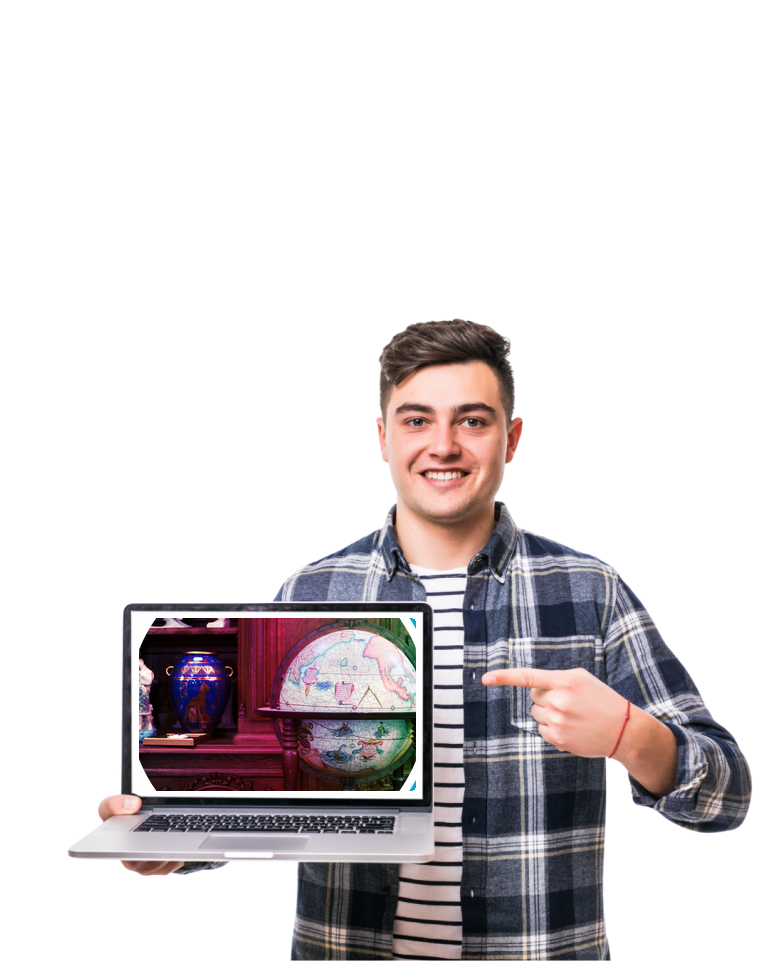
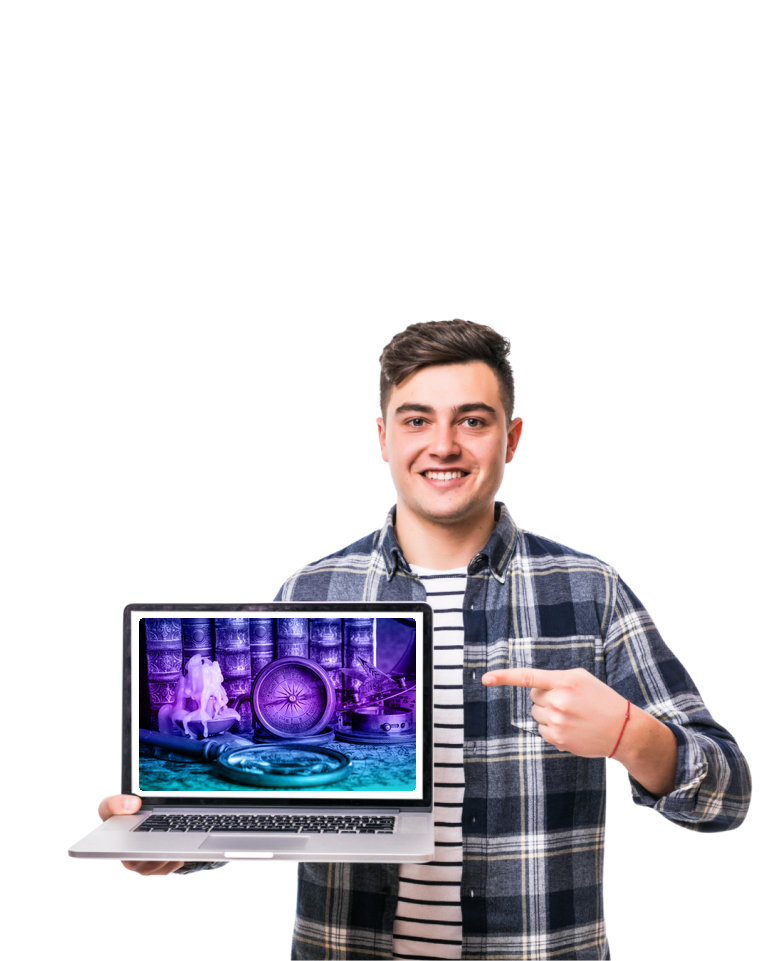
Put image copy 2 on the Museology hero laptop screen.

Changed region(s): [[0.156, 0.6243, 0.5618, 0.8429]]

diff --git a/index.html b/index.html
@@ -644,7 +644,7 @@ height="0" width="0" style="display:none;visibility:hidden"></iframe></noscript>
 
       <div class="hero-center">
         <div class="hero-student-stack">
-          <img src="assets/hero-student-laptop-blue.png" alt="Museology student with heritage programme visual on laptop" class="hero-student-img">
+          <img src="assets/hero-student-laptop-blue.png" alt="Museology student with blue heritage artefacts on laptop" class="hero-student-img">
             </div>
           </div>
 
@@ -784,7 +784,7 @@ height="0" width="0" style="display:none;visibility:hidden"></iframe></noscript>
             <span class="programme-learn-more-arrow" aria-hidden="true">&#8592;</span>
           </a>
           <figure class="programme-overview-finance">
-            <img src="assets/image copy 2.png" alt="Heritage research artefacts — compass, books and archival tools" class="programme-overview-img">
+            <img src="assets/digital-innovation.png" alt="Digital innovation in cultural heritage learning" class="programme-overview-img">
           </figure>
         </div>
       </div>
